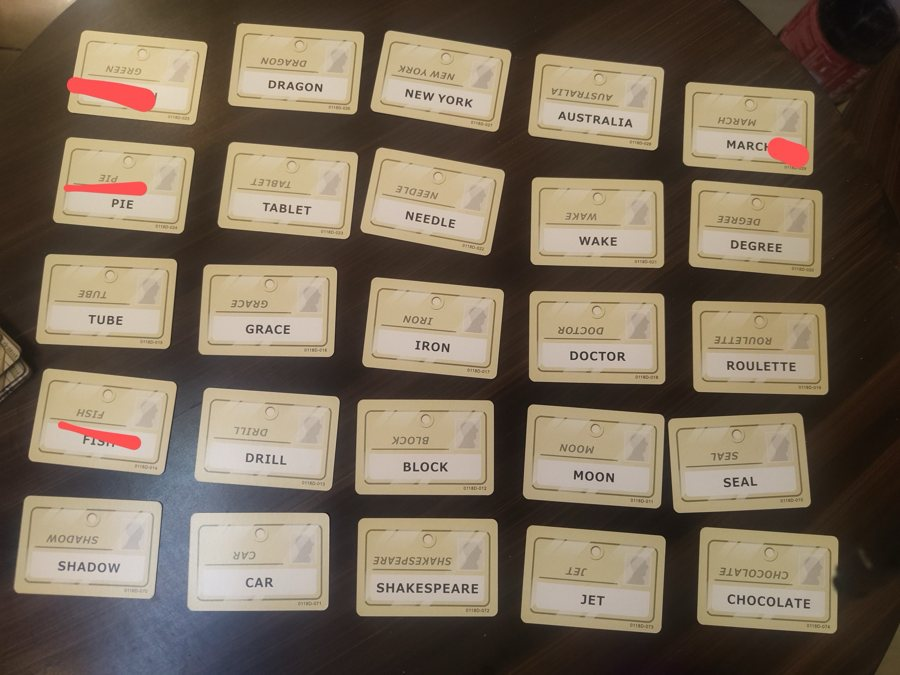
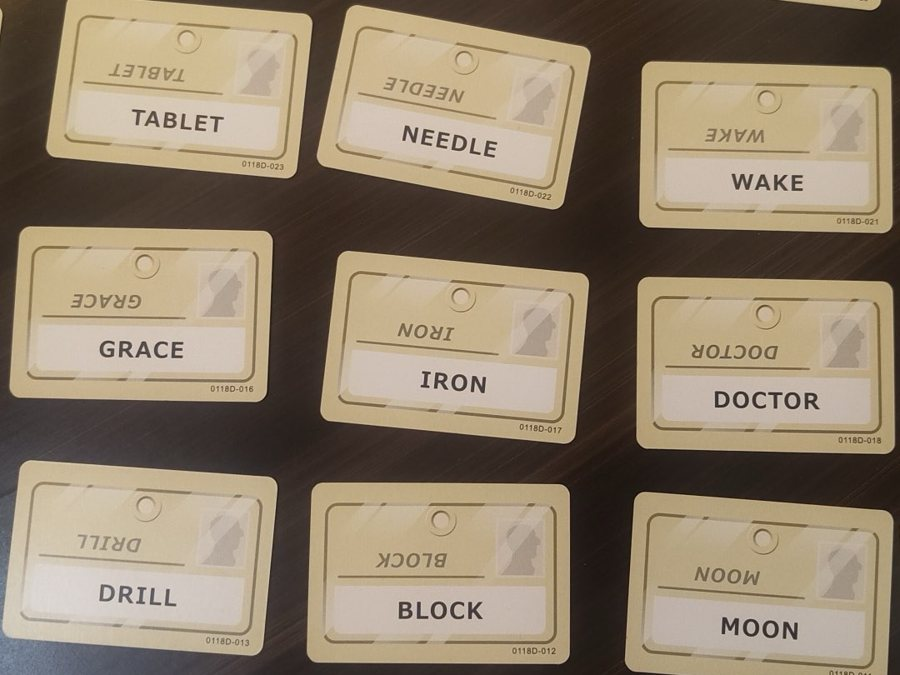
Play home: closer crop of Codenames cards
Claude-Session: https://claude.ai/code/session_01ViFN6jStNe9FJW9fzJx59M

diff --git a/play-home.html b/play-home.html
@@ -240,7 +240,7 @@ function setV(v){
     s.className='slot has-photo '+shape; if(ar) s.style.setProperty('--ar',ar); else s.style.removeProperty('--ar');
     let img=s.querySelector('img.ph');
     if(!img){ img=document.createElement('img'); img.className='ph'; img.alt=''; img.draggable=false; s.prepend(img); }
-    img.src=P+f+'?v=9';
+    img.src=P+f+'?v=10';
   }
   
 // light and shade: pieces pick up the sun's diagonal
